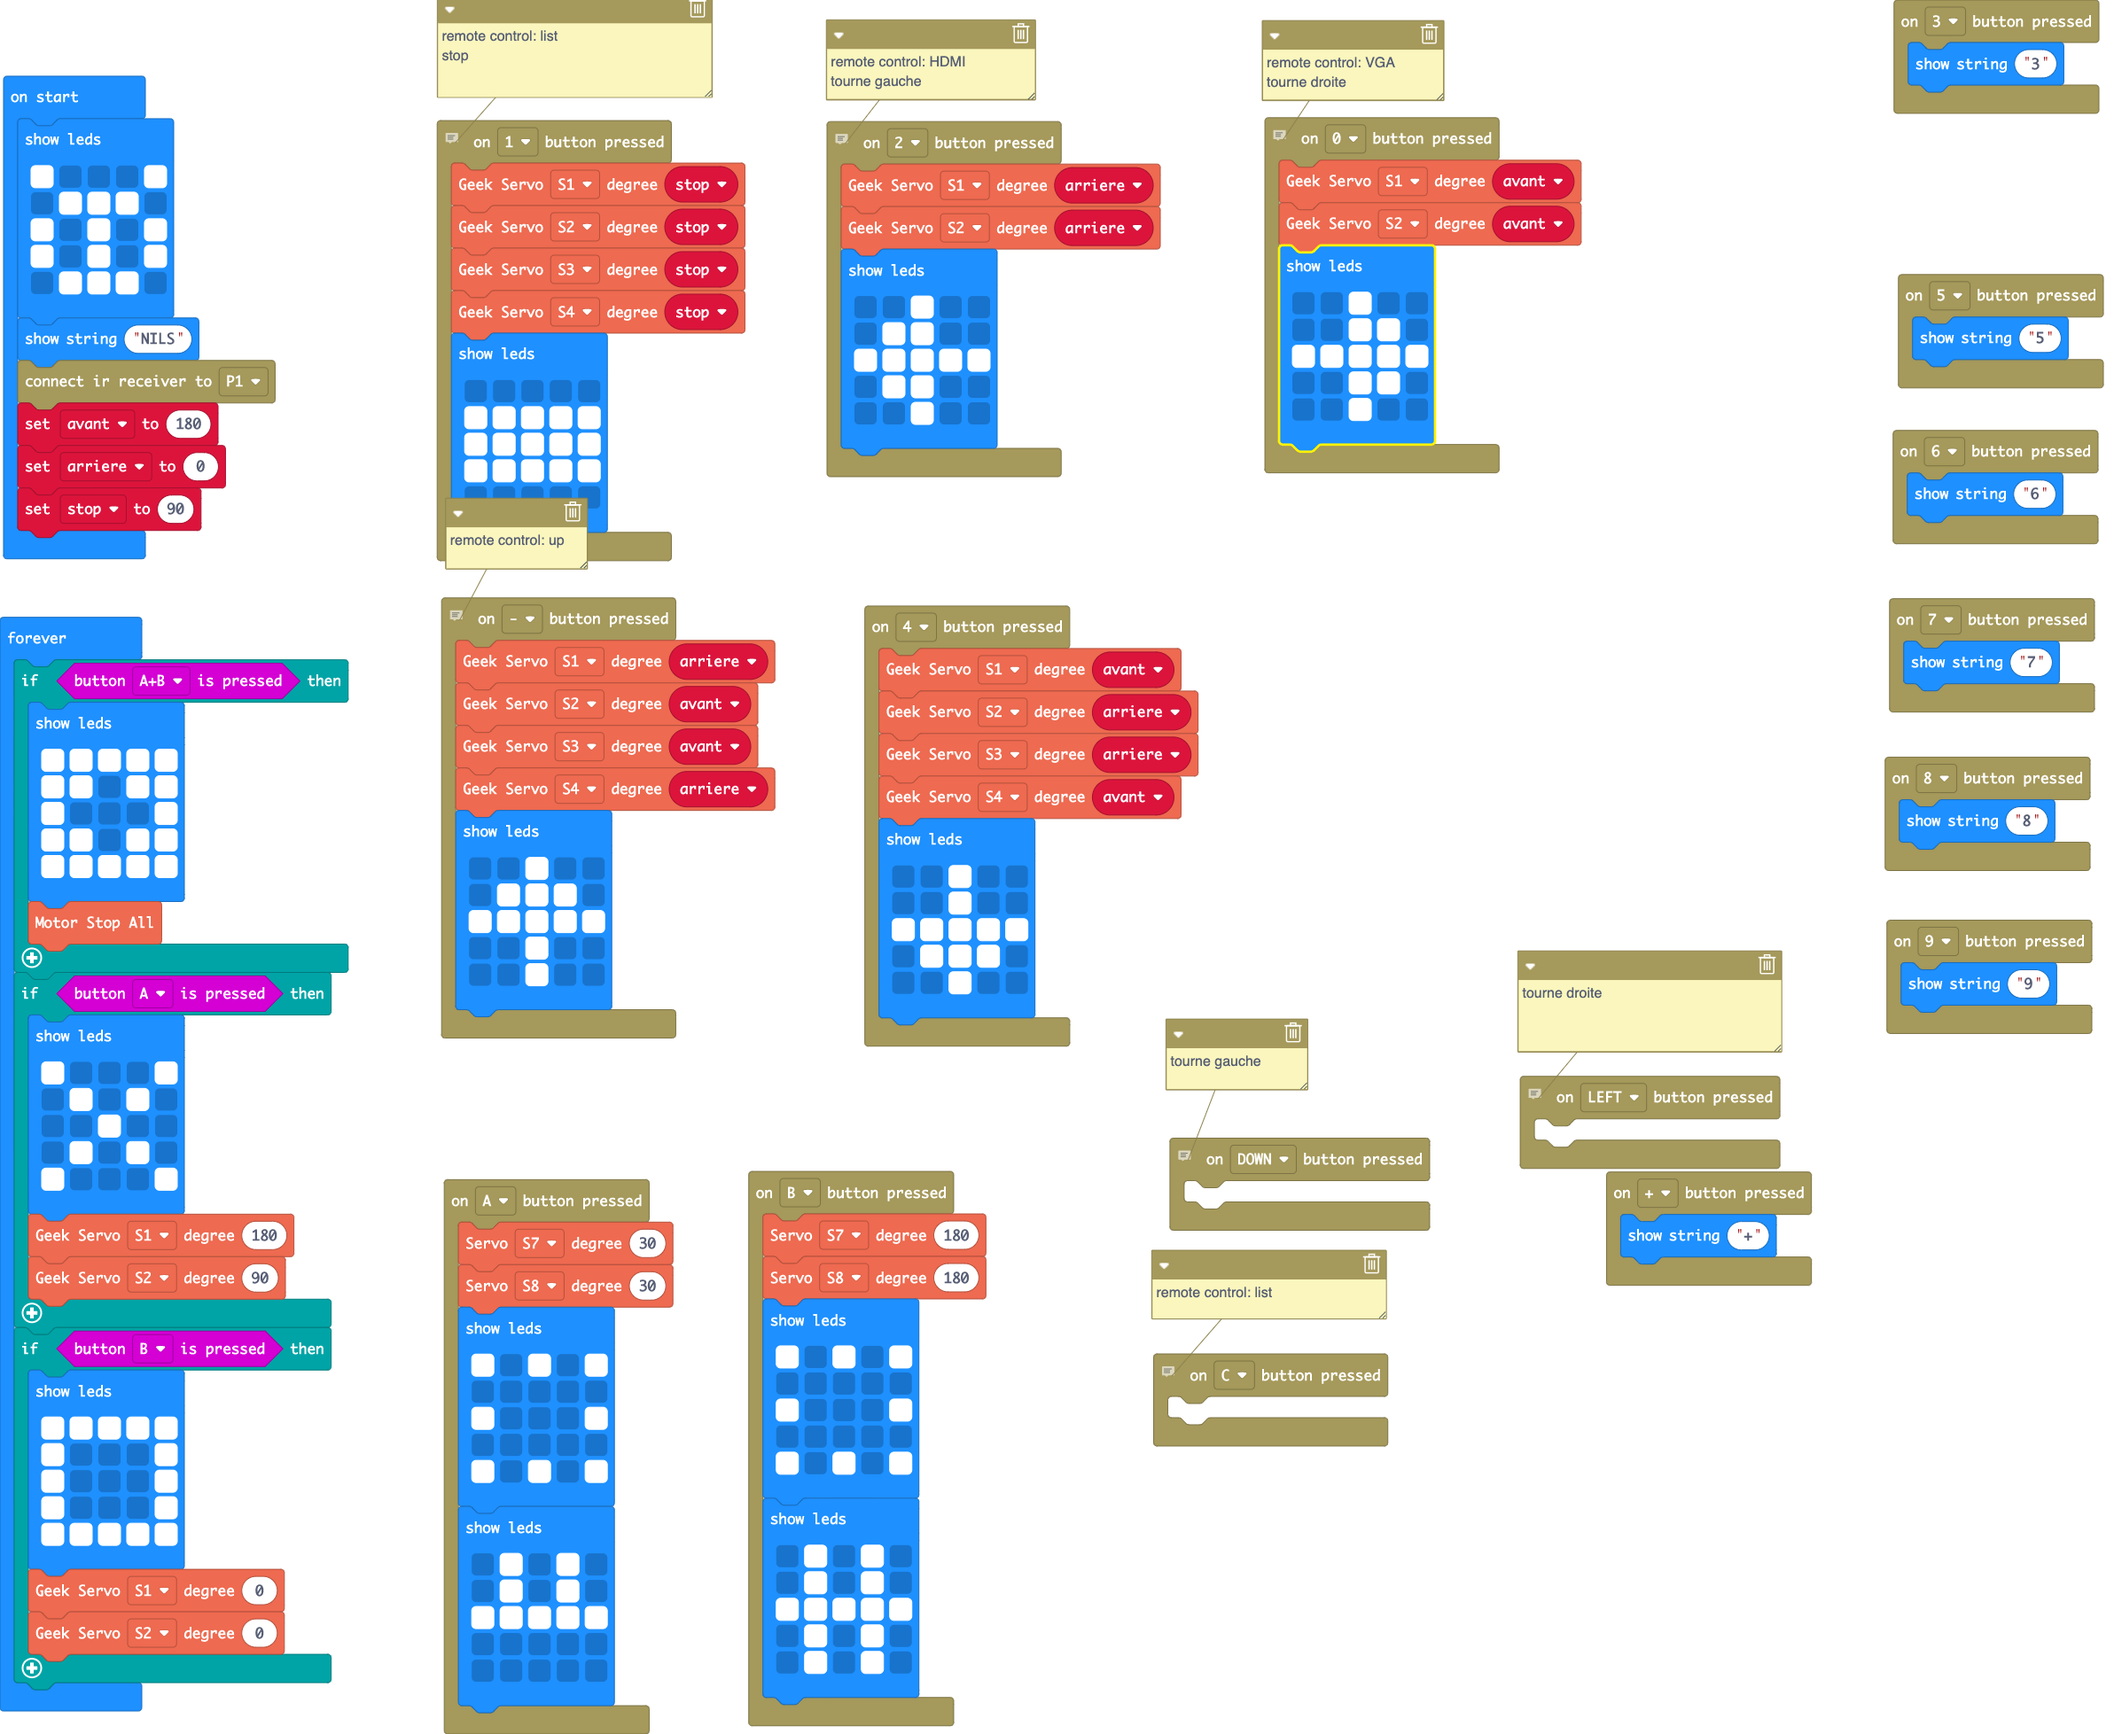
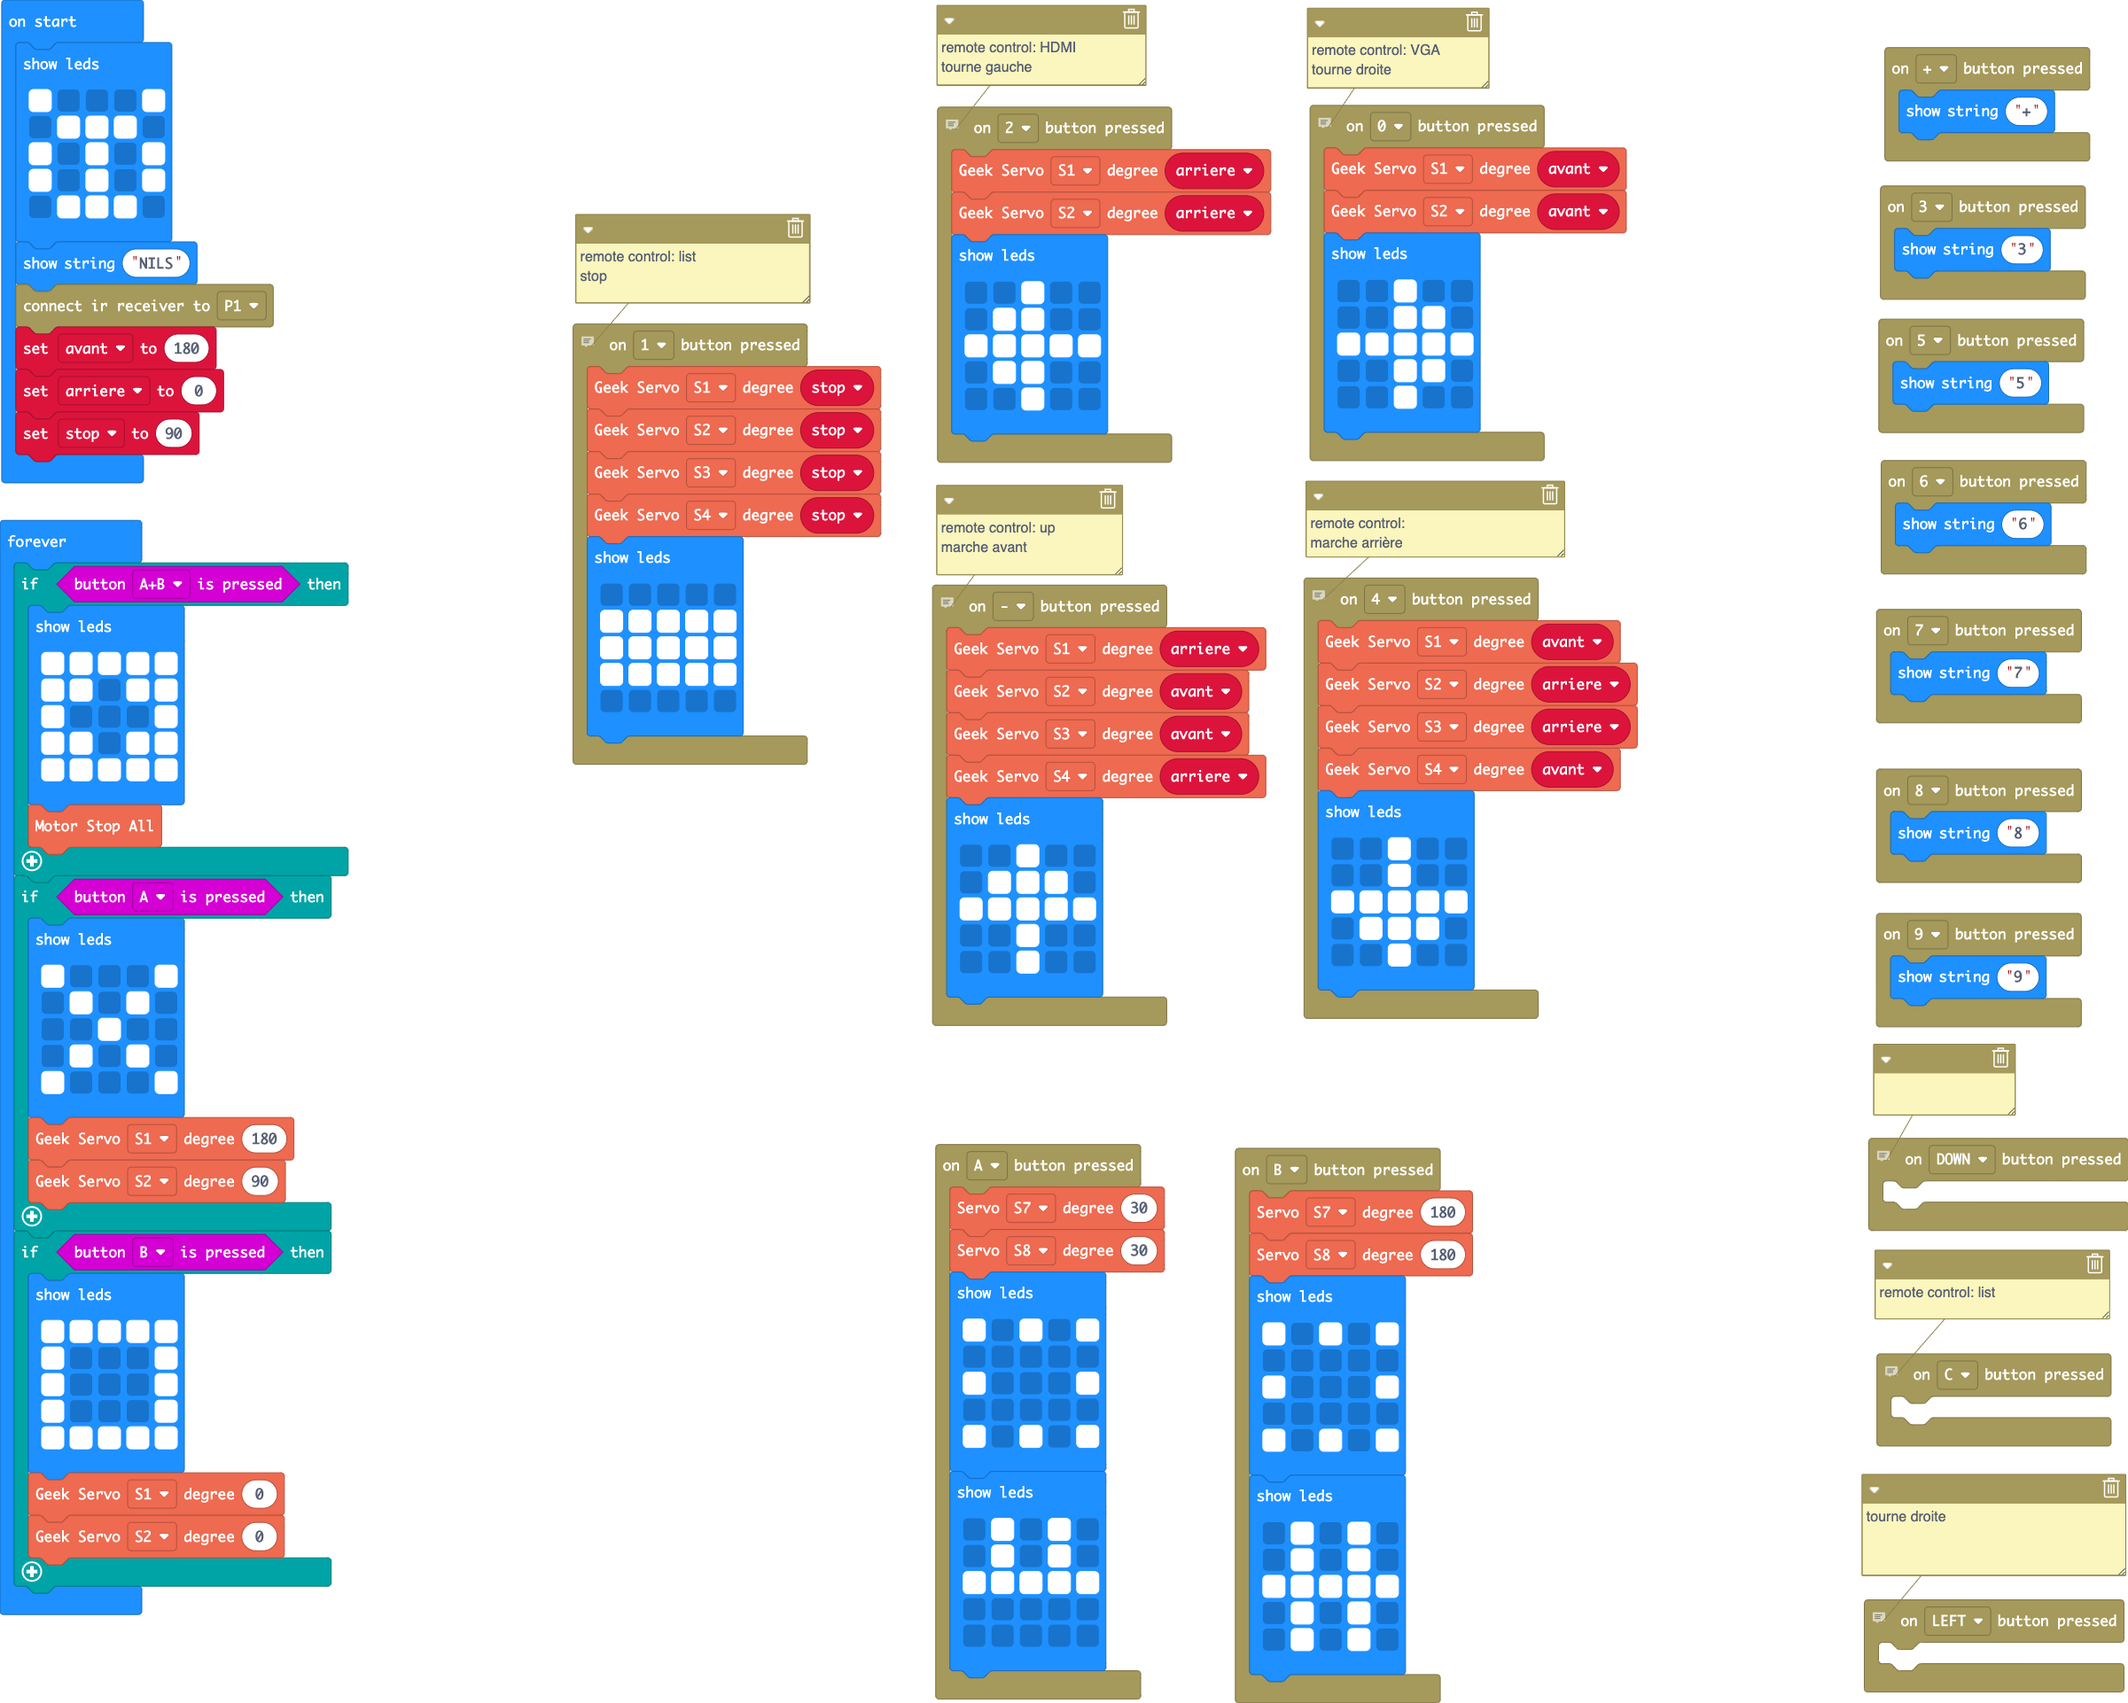
added some comments

diff --git a/main.ts b/main.ts
@@ -111,6 +111,8 @@ IrRemote.onPressEvent(RemoteButton.B, function () {
         . # . # .
         `)
 })
+// remote control: 
+// marche arrière
 IrRemote.onPressEvent(RemoteButton.NUM4, function () {
     magicbit.GeekServo(magicbit.Servos.S1, avant)
     magicbit.GeekServo(magicbit.Servos.S2, arriere)
@@ -124,7 +126,7 @@ IrRemote.onPressEvent(RemoteButton.NUM4, function () {
         . . # . .
         `)
 })
-// tourne gauche
+// 
 IrRemote.onPressEvent(RemoteButton.Down, function () {
 	
 })
